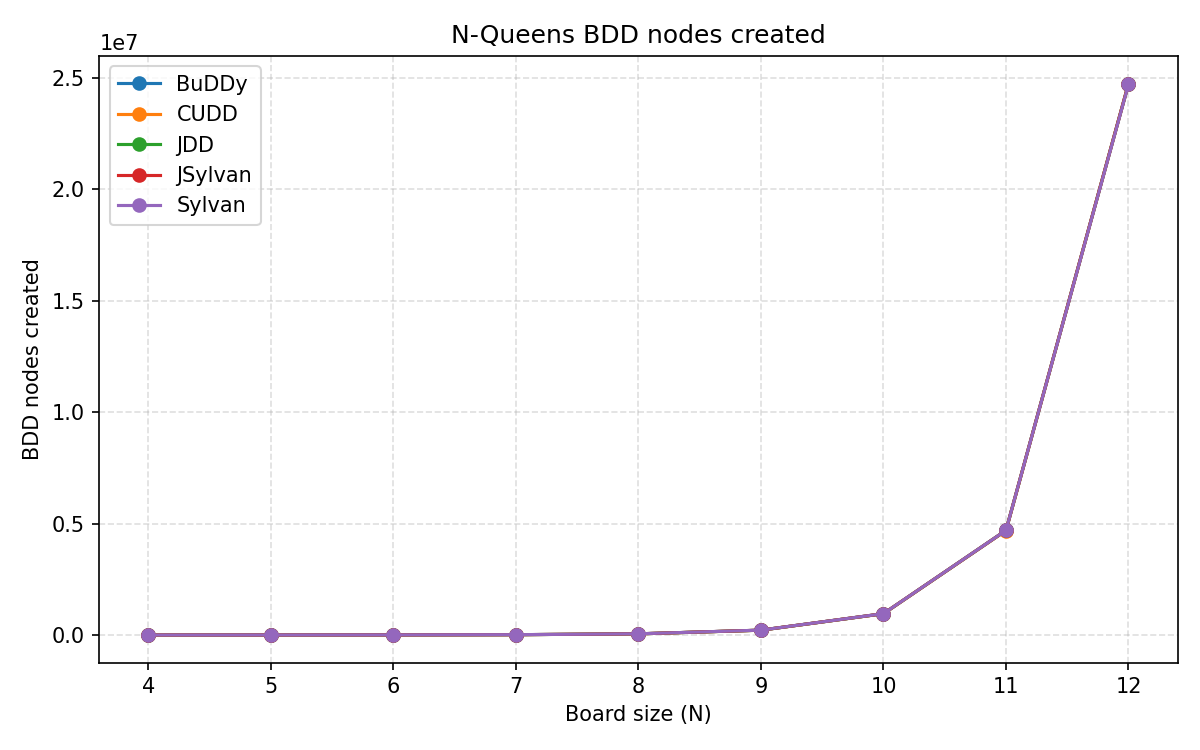
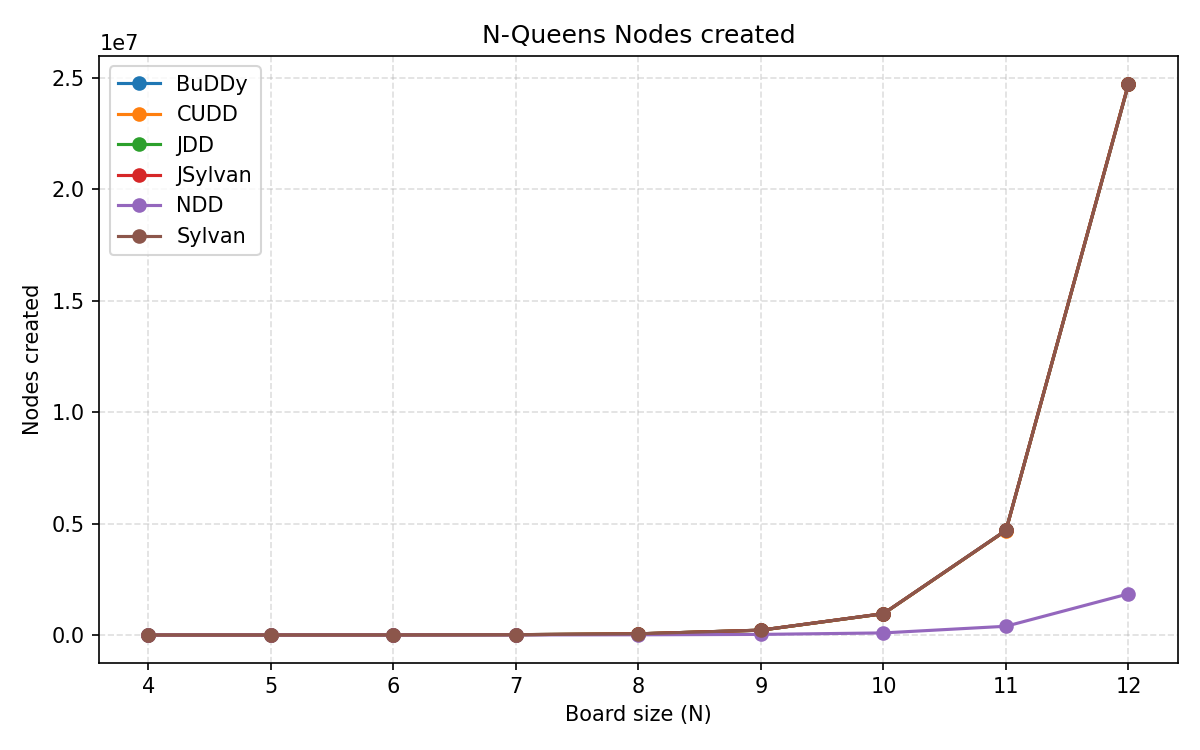
feat(result): update result with NDD

diff --git a/README.md b/README.md
@@ -10,6 +10,14 @@ Java 语言
 2. JSylvan
 3. NDD
 
+## results
+
+![](results/nqueens_time_sec.png)
+
+![](results/nqueens_nodes.png)
+
+![](results/nqueens_max_rss_kb.png)
+
 ## 使用方式
 
 ### 依赖
